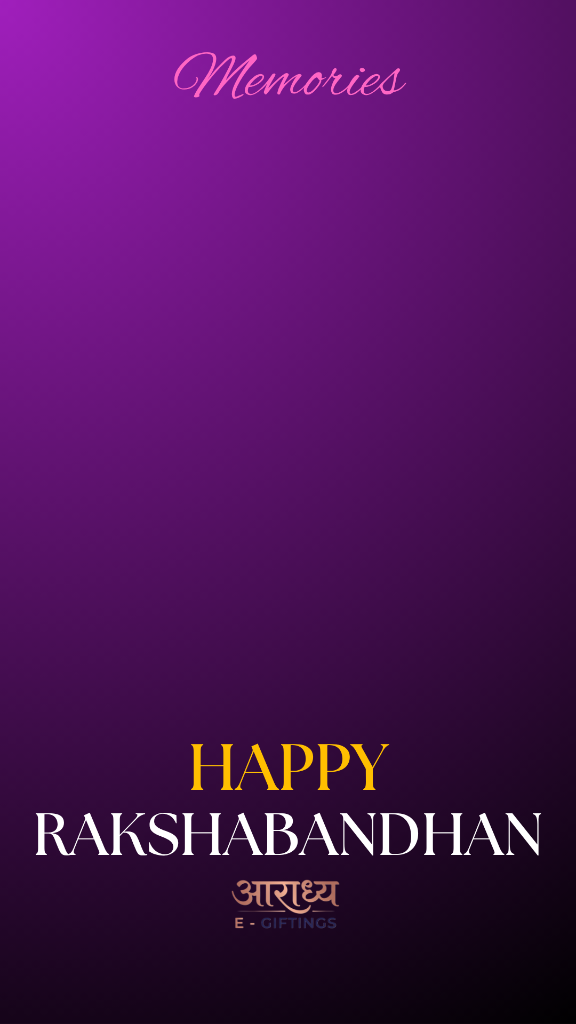
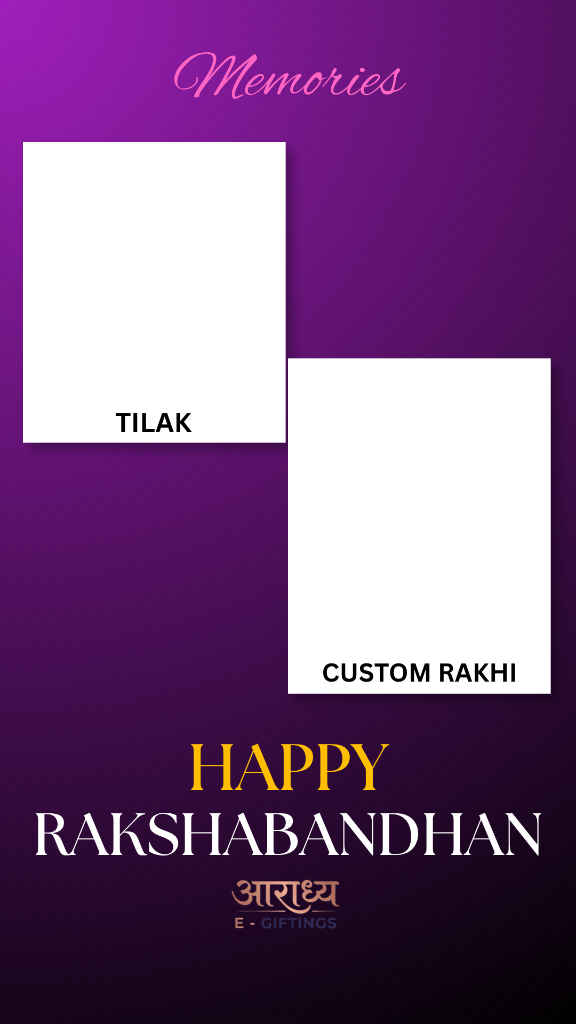
feat: use new poster background with baked-in white frames and align Tilak photo and custom Rakhi hand precisely in frame cutouts

Changed region(s): [[0.0312, 0.125, 0.9688, 0.6875]]

diff --git a/src/components/templates/RakshaBandhan/RakshaPosterModal.tsx b/src/components/templates/RakshaBandhan/RakshaPosterModal.tsx
@@ -109,7 +109,7 @@ export function RakshaPosterModal({ d, design, onClose }: RakshaPosterModalProps
         </button>
       </div>
 
-      {/* 9:16 Poster Card Container */}
+      {/* 9:16 Poster Card Container with Baked-in Frames */}
       <div
         ref={posterRef}
         style={{
@@ -117,161 +117,87 @@ export function RakshaPosterModal({ d, design, onClose }: RakshaPosterModalProps
           width: "min(340px, 84vw)",
           height: "min(604px, 78vh)",
           aspectRatio: "9/16",
-          borderRadius: 0, // Sharp crisp outer container
           overflow: "hidden",
           boxShadow: "0 24px 60px rgba(0,0,0,0.9), 0 0 0 1px rgba(255,255,255,0.15)",
           backgroundImage: "url(/templates/raksha-bandhan/card_bg.png)",
           backgroundSize: "cover",
           backgroundPosition: "center",
           backgroundRepeat: "no-repeat",
-          display: "flex",
-          flexDirection: "column",
-          alignItems: "center",
           userSelect: "none",
         }}
       >
-        {/* Center Space: Sharp White Photo Frames (No Radius, 3:4 & >3:4 Ratios) */}
+        {/* Photo 1: Tilak Sibling Photo (Precisely aligned inside Left Top Frame "TILAK") */}
         <div
           style={{
             position: "absolute",
-            top: "20%",
-            left: "6%",
-            right: "6%",
-            bottom: "21%",
-            display: "flex",
-            flexDirection: "column",
-            alignItems: "center",
-            justifyContent: "center",
-            gap: 12,
+            left: "5.3%",
+            top: "14.7%",
+            width: "43%",
+            height: "23.5%",
+            overflow: "hidden",
+            background: "#000",
           }}
         >
-          {/* Frame 1: Applied Tilak Photo (3:4 ratio, Sharp edges, Clean font) */}
+          {/* eslint-disable-next-line @next/next/no-img-element */}
+          <img
+            src={faceImgUrl}
+            alt="Sibling Tilak Photo"
+            style={{ width: "100%", height: "100%", objectFit: "cover" }}
+          />
+          {/* Authentic Red Tilak Mark overlay on forehead */}
           <div
             style={{
-              background: "#ffffff",
-              borderRadius: 0, // No border radius
-              padding: "6px 6px 10px 6px",
-              boxShadow: "0 12px 28px rgba(0,0,0,0.45)",
-              transform: "rotate(-2.5deg)",
-              width: "78%",
-              display: "flex",
-              flexDirection: "column",
-              alignItems: "center",
+              position: "absolute",
+              left: `${targetX}%`,
+              top: `${targetY}%`,
+              width: Math.min(36, tilakSize * 0.6),
+              height: Math.min(65, tilakSize * 1.1),
+              transform: "translate(-50%, -50%)",
+              pointerEvents: "none",
             }}
           >
-            <div
-              style={{
-                position: "relative",
-                width: "100%",
-                aspectRatio: "3/4", // Strict 3:4 portrait ratio for tilak photo
-                borderRadius: 0,
-                overflow: "hidden",
-                background: "#000",
-              }}
-            >
-              {/* eslint-disable-next-line @next/next/no-img-element */}
-              <img
-                src={faceImgUrl}
-                alt="Sibling Tilak Photo"
-                style={{ width: "100%", height: "100%", objectFit: "cover" }}
-              />
-              {/* Authentic Red Tilak Mark overlay on forehead */}
-              <div
-                style={{
-                  position: "absolute",
-                  left: `${targetX}%`,
-                  top: `${targetY}%`,
-                  width: Math.min(36, tilakSize * 0.6),
-                  height: Math.min(65, tilakSize * 1.1),
-                  transform: "translate(-50%, -50%)",
-                  pointerEvents: "none",
-                }}
-              >
-                {/* eslint-disable-next-line @next/next/no-img-element */}
-                <img
-                  src="/templates/raksha-bandhan/tilak_mark.png"
-                  alt="Tilak Mark"
-                  style={{ width: "100%", height: "100%", objectFit: "contain" }}
-                />
-              </div>
-            </div>
-            {/* Clean Sans-Serif Upper-case Caption (No Handwriting font) */}
-            <span
-              style={{
-                fontFamily: "'Inter', sans-serif",
-                fontSize: 11,
-                fontWeight: 700,
-                letterSpacing: "0.08em",
-                textTransform: "uppercase",
-                color: "#5a1226",
-                marginTop: 6,
-              }}
-            >
-              Tilak Applied 🔴
-            </span>
+            {/* eslint-disable-next-line @next/next/no-img-element */}
+            <img
+              src="/templates/raksha-bandhan/tilak_mark.png"
+              alt="Tilak Mark"
+              style={{ width: "100%", height: "100%", objectFit: "contain" }}
+            />
           </div>
+        </div>
 
-          {/* Frame 2: Tied Rakhi Hand (Greater than 3:4 height ratio, Sharp edges, Clean font) */}
+        {/* Photo 2: Tied Rakhi Hand Photo (Precisely aligned inside Right Bottom Frame "CUSTOM RAKHI") */}
+        <div
+          style={{
+            position: "absolute",
+            left: "51.3%",
+            top: "35.8%",
+            width: "43%",
+            height: "26.8%",
+            overflow: "hidden",
+            background: "linear-gradient(180deg, #2a0e1a 0%, #15060d 100%)",
+            display: "flex",
+            alignItems: "center",
+            justifyContent: "center",
+          }}
+        >
+          {/* 3D Hand */}
+          {/* eslint-disable-next-line @next/next/no-img-element */}
+          <img
+            src="/templates/raksha-bandhan/real_hand.png"
+            alt="Tied Hand"
+            style={{ width: "100%", height: "100%", objectFit: "contain", opacity: 0.95 }}
+          />
+          {/* Tied Custom Medallion */}
           <div
             style={{
-              background: "#ffffff",
-              borderRadius: 0, // No border radius
-              padding: "6px 6px 10px 6px",
-              boxShadow: "0 12px 28px rgba(0,0,0,0.45)",
-              transform: "rotate(2.5deg)",
-              width: "78%",
-              display: "flex",
-              flexDirection: "column",
-              alignItems: "center",
+              position: "absolute",
+              left: "50%",
+              top: "66%",
+              transform: "translate(-50%, -50%) scale(0.68)",
+              filter: "drop-shadow(0 0 10px rgba(245,200,66,0.9))",
             }}
           >
-            <div
-              style={{
-                position: "relative",
-                width: "100%",
-                aspectRatio: "3/4.8", // More than 3:4 height ratio (taller portrait for full arm display)
-                borderRadius: 0,
-                overflow: "hidden",
-                background: "linear-gradient(180deg, #2a0e1a 0%, #15060d 100%)",
-                display: "flex",
-                alignItems: "center",
-                justifyContent: "center",
-              }}
-            >
-              {/* 3D Hand */}
-              {/* eslint-disable-next-line @next/next/no-img-element */}
-              <img
-                src="/templates/raksha-bandhan/real_hand.png"
-                alt="Tied Hand"
-                style={{ width: "100%", height: "100%", objectFit: "contain", opacity: 0.95 }}
-              />
-              {/* Tied Medallion */}
-              <div
-                style={{
-                  position: "absolute",
-                  left: "50%",
-                  top: "66%",
-                  transform: "translate(-50%, -50%) scale(0.68)",
-                  filter: "drop-shadow(0 0 10px rgba(245,200,66,0.9))",
-                }}
-              >
-                <RenderRakhiMedallion design={activeDesign} size={80} />
-              </div>
-            </div>
-            {/* Clean Sans-Serif Upper-case Caption (No Handwriting font) */}
-            <span
-              style={{
-                fontFamily: "'Inter', sans-serif",
-                fontSize: 11,
-                fontWeight: 700,
-                letterSpacing: "0.08em",
-                textTransform: "uppercase",
-                color: "#5a1226",
-                marginTop: 6,
-              }}
-            >
-              Rakhi Tied 🎀
-            </span>
+            <RenderRakhiMedallion design={activeDesign} size={80} />
           </div>
         </div>
       </div>
